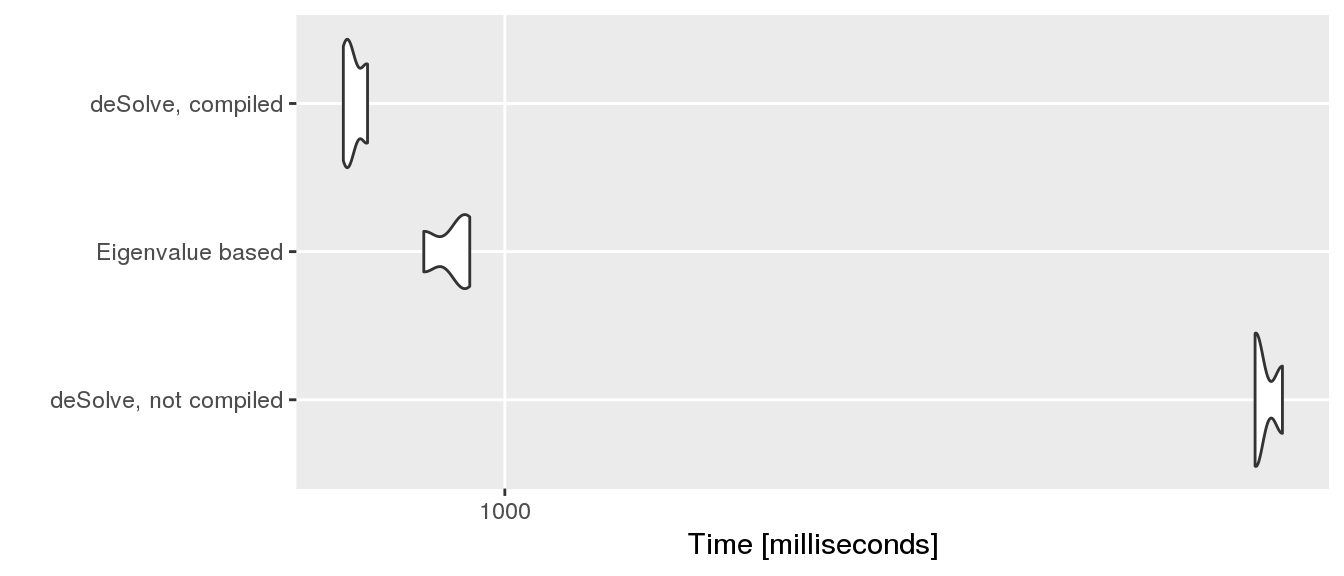
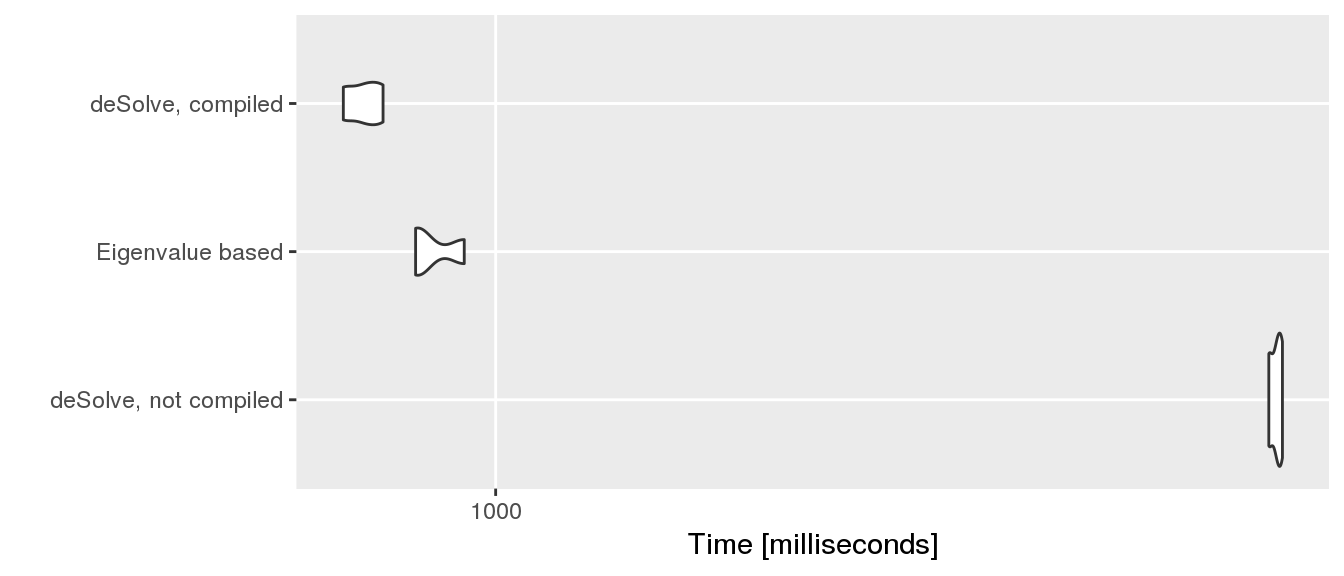
Static documentation articles rebuilt by pkgdown::build_articles()

diff --git a/docs/articles/FOCUS_L.html b/docs/articles/FOCUS_L.html
@@ -79,15 +79,15 @@ FOCUS_2006_L1_mkin &lt;-<span class="st"> </span><span class="kw"><a href="../re
 <span class="kw">summary</span>(m.L1.SFO)</code></pre></div>
 <pre><code>## mkin version:    0.9.45 
 ## R version:       3.3.2 
-## Date of fit:     Thu Dec  8 09:23:13 2016 
-## Date of summary: Thu Dec  8 09:23:13 2016 
+## Date of fit:     Thu Dec  8 09:39:24 2016 
+## Date of summary: Thu Dec  8 09:39:24 2016 
 ## 
 ## Equations:
 ## d_parent/dt = - k_parent_sink * parent
 ## 
 ## Model predictions using solution type analytical 
 ## 
-## Fitted with method Port using 37 model solutions performed in 0.088 s
+## Fitted with method Port using 37 model solutions performed in 0.084 s
 ## 
 ## Weighting: none
 ## 
@@ -172,8 +172,8 @@ FOCUS_2006_L1_mkin &lt;-<span class="st"> </span><span class="kw"><a href="../re
 <div class="sourceCode"><pre class="sourceCode r"><code class="sourceCode r"><span class="kw">summary</span>(m.L1.FOMC, <span class="dt">data =</span> <span class="ot">FALSE</span>)</code></pre></div>
 <pre><code>## mkin version:    0.9.45 
 ## R version:       3.3.2 
-## Date of fit:     Thu Dec  8 09:23:14 2016 
-## Date of summary: Thu Dec  8 09:23:14 2016 
+## Date of fit:     Thu Dec  8 09:39:25 2016 
+## Date of summary: Thu Dec  8 09:39:25 2016 
 ## 
 ## 
 ## Warning: Optimisation by method Port did not converge.
@@ -269,15 +269,15 @@ FOCUS_2006_L2_mkin &lt;-<span class="st"> </span><span class="kw"><a href="../re
 <div class="sourceCode"><pre class="sourceCode r"><code class="sourceCode r"><span class="kw">summary</span>(m.L2.FOMC, <span class="dt">data =</span> <span class="ot">FALSE</span>)</code></pre></div>
 <pre><code>## mkin version:    0.9.45 
 ## R version:       3.3.2 
-## Date of fit:     Thu Dec  8 09:23:14 2016 
-## Date of summary: Thu Dec  8 09:23:14 2016 
+## Date of fit:     Thu Dec  8 09:39:26 2016 
+## Date of summary: Thu Dec  8 09:39:26 2016 
 ## 
 ## Equations:
 ## d_parent/dt = - (alpha/beta) * 1/((time/beta) + 1) * parent
 ## 
 ## Model predictions using solution type analytical 
 ## 
-## Fitted with method Port using 81 model solutions performed in 0.185 s
+## Fitted with method Port using 81 model solutions performed in 0.183 s
 ## 
 ## Weighting: none
 ## 
@@ -339,8 +339,8 @@ FOCUS_2006_L2_mkin &lt;-<span class="st"> </span><span class="kw"><a href="../re
 <div class="sourceCode"><pre class="sourceCode r"><code class="sourceCode r"><span class="kw">summary</span>(m.L2.DFOP, <span class="dt">data =</span> <span class="ot">FALSE</span>)</code></pre></div>
 <pre><code>## mkin version:    0.9.45 
 ## R version:       3.3.2 
-## Date of fit:     Thu Dec  8 09:23:15 2016 
-## Date of summary: Thu Dec  8 09:23:15 2016 
+## Date of fit:     Thu Dec  8 09:39:27 2016 
+## Date of summary: Thu Dec  8 09:39:27 2016 
 ## 
 ## Equations:
 ## d_parent/dt = - ((k1 * g * exp(-k1 * time) + k2 * (1 - g) *
@@ -349,7 +349,7 @@ FOCUS_2006_L2_mkin &lt;-<span class="st"> </span><span class="kw"><a href="../re
 ## 
 ## Model predictions using solution type analytical 
 ## 
-## Fitted with method Port using 336 model solutions performed in 0.765 s
+## Fitted with method Port using 336 model solutions performed in 0.771 s
 ## 
 ## Weighting: none
 ## 
@@ -428,8 +428,8 @@ mm.L3 &lt;-<span class="st"> </span><span class="kw"><a href="../reference/mmkin
 <div class="sourceCode"><pre class="sourceCode r"><code class="sourceCode r"><span class="kw">summary</span>(mm.L3[[<span class="st">"DFOP"</span>, <span class="dv">1</span>]])</code></pre></div>
 <pre><code>## mkin version:    0.9.45 
 ## R version:       3.3.2 
-## Date of fit:     Thu Dec  8 09:23:17 2016 
-## Date of summary: Thu Dec  8 09:23:17 2016 
+## Date of fit:     Thu Dec  8 09:39:28 2016 
+## Date of summary: Thu Dec  8 09:39:28 2016 
 ## 
 ## Equations:
 ## d_parent/dt = - ((k1 * g * exp(-k1 * time) + k2 * (1 - g) *
@@ -438,7 +438,7 @@ mm.L3 &lt;-<span class="st"> </span><span class="kw"><a href="../reference/mmkin
 ## 
 ## Model predictions using solution type analytical 
 ## 
-## Fitted with method Port using 137 model solutions performed in 0.309 s
+## Fitted with method Port using 137 model solutions performed in 0.304 s
 ## 
 ## Weighting: none
 ## 
@@ -528,15 +528,15 @@ mm.L4 &lt;-<span class="st"> </span><span class="kw"><a href="../reference/mmkin
 <div class="sourceCode"><pre class="sourceCode r"><code class="sourceCode r"><span class="kw">summary</span>(mm.L4[[<span class="st">"SFO"</span>, <span class="dv">1</span>]], <span class="dt">data =</span> <span class="ot">FALSE</span>)</code></pre></div>
 <pre><code>## mkin version:    0.9.45 
 ## R version:       3.3.2 
-## Date of fit:     Thu Dec  8 09:23:17 2016 
-## Date of summary: Thu Dec  8 09:23:17 2016 
+## Date of fit:     Thu Dec  8 09:39:28 2016 
+## Date of summary: Thu Dec  8 09:39:29 2016 
 ## 
 ## Equations:
 ## d_parent/dt = - k_parent_sink * parent
 ## 
 ## Model predictions using solution type analytical 
 ## 
-## Fitted with method Port using 46 model solutions performed in 0.106 s
+## Fitted with method Port using 46 model solutions performed in 0.107 s
 ## 
 ## Weighting: none
 ## 
@@ -588,15 +588,15 @@ mm.L4 &lt;-<span class="st"> </span><span class="kw"><a href="../reference/mmkin
 <div class="sourceCode"><pre class="sourceCode r"><code class="sourceCode r"><span class="kw">summary</span>(mm.L4[[<span class="st">"FOMC"</span>, <span class="dv">1</span>]], <span class="dt">data =</span> <span class="ot">FALSE</span>)</code></pre></div>
 <pre><code>## mkin version:    0.9.45 
 ## R version:       3.3.2 
-## Date of fit:     Thu Dec  8 09:23:17 2016 
-## Date of summary: Thu Dec  8 09:23:17 2016 
+## Date of fit:     Thu Dec  8 09:39:28 2016 
+## Date of summary: Thu Dec  8 09:39:29 2016 
 ## 
 ## Equations:
 ## d_parent/dt = - (alpha/beta) * 1/((time/beta) + 1) * parent
 ## 
 ## Model predictions using solution type analytical 
 ## 
-## Fitted with method Port using 66 model solutions performed in 0.148 s
+## Fitted with method Port using 66 model solutions performed in 0.145 s
 ## 
 ## Weighting: none
 ## 

diff --git a/docs/articles/compiled_models.html b/docs/articles/compiled_models.html
@@ -99,21 +99,21 @@ mb<span class="fl">.1</span> &lt;-<span class="st"> </span><span class="kw">micr
 <span class="kw">print</span>(mb<span class="fl">.1</span>)</code></pre></div>
 <pre><code>## Unit: milliseconds
 ##                   expr       min        lq      mean    median        uq
-##  deSolve, not compiled 5006.3815 5014.4629 5112.7115 5022.5443 5165.8765
-##       Eigenvalue based  840.3027  874.3549  892.0593  908.4071  917.9376
-##      deSolve, compiled  706.9909  712.8031  723.4380  718.6154  731.6615
+##  deSolve, not compiled 5185.0893 5231.5690 5266.8769 5278.0487 5307.7706
+##       Eigenvalue based  843.3153  847.1503  876.5398  850.9853  893.1520
+##      deSolve, compiled  723.0636  740.5682  755.9995  758.0729  772.4674
 ##        max neval cld
-##  5309.2087     3   b
-##   927.4680     3  a 
-##   744.7077     3  a</code></pre>
+##  5337.4926     3   b
+##   935.3187     3  a 
+##   786.8620     3  a</code></pre>
 <div class="sourceCode"><pre class="sourceCode r"><code class="sourceCode r"><span class="kw">autoplot</span>(mb<span class="fl">.1</span>)</code></pre></div>
 <p><img src="compiled_models_files/figure-html/benchmark_SFO_SFO-1.png" width="672"></p>
 <p>We see that using the compiled model is by a factor of 7 faster than using the R version with the default ode solver, and it is even faster than the Eigenvalue based solution implemented in R which does not need iterative solution of the ODEs:</p>
 <div class="sourceCode"><pre class="sourceCode r"><code class="sourceCode r"><span class="kw">rownames</span>(smb<span class="fl">.1</span>) &lt;-<span class="st"> </span>smb<span class="fl">.1</span>$expr
 smb<span class="fl">.1</span>[<span class="st">"median"</span>]/smb<span class="fl">.1</span>[<span class="st">"deSolve, compiled"</span>, <span class="st">"median"</span>]</code></pre></div>
 <pre><code>##                         median
-## deSolve, not compiled 6.989197
-## Eigenvalue based      1.264108
+## deSolve, not compiled 6.962456
+## Eigenvalue based      1.122564
 ## deSolve, compiled     1.000000</code></pre>
 </div>
 <div id="model-that-can-not-be-solved-with-eigenvalues" class="section level2">
@@ -134,19 +134,19 @@ smb<span class="fl">.1</span>[<span class="st">"median"</span>]/smb<span class="
 <div class="sourceCode"><pre class="sourceCode r"><code class="sourceCode r">smb<span class="fl">.2</span> &lt;-<span class="st"> </span><span class="kw">summary</span>(mb<span class="fl">.2</span>)
 <span class="kw">print</span>(mb<span class="fl">.2</span>)</code></pre></div>
 <pre><code>## Unit: seconds
-##                   expr       min       lq     mean    median        uq
-##  deSolve, not compiled 11.015990 11.17783 11.24827 11.339674 11.364403
-##      deSolve, compiled  1.285264  1.29794  1.32988  1.310616  1.352189
+##                   expr       min        lq      mean   median        uq
+##  deSolve, not compiled 10.963655 10.992677 11.033360 11.02170 11.068212
+##      deSolve, compiled  1.287898  1.309754  1.322972  1.33161  1.340509
 ##        max neval cld
-##  11.389132     3   b
-##   1.393762     3  a</code></pre>
+##  11.114726     3   b
+##   1.349408     3  a</code></pre>
 <div class="sourceCode"><pre class="sourceCode r"><code class="sourceCode r">smb<span class="fl">.2</span>[<span class="st">"median"</span>]/smb<span class="fl">.2</span>[<span class="st">"deSolve, compiled"</span>, <span class="st">"median"</span>]</code></pre></div>
 <pre><code>##   median
 ## 1     NA
 ## 2     NA</code></pre>
 <div class="sourceCode"><pre class="sourceCode r"><code class="sourceCode r"><span class="kw">autoplot</span>(mb<span class="fl">.2</span>)</code></pre></div>
 <p><img src="compiled_models_files/figure-html/benchmark_FOMC_SFO-1.png" width="672"></p>
-<p>Here we get a performance benefit of a factor of 8.7 using the version of the differential equation model compiled from C code!</p>
+<p>Here we get a performance benefit of a factor of 8.3 using the version of the differential equation model compiled from C code!</p>
 <p>This vignette was built with mkin 0.9.45 on</p>
 <pre><code>## R version 3.3.2 (2016-10-31)
 ## Platform: x86_64-pc-linux-gnu (64-bit)

diff --git a/docs/articles/FOCUS_D.html b/docs/articles/FOCUS_D.html
@@ -132,8 +132,8 @@
 <div class="sourceCode"><pre class="sourceCode r"><code class="sourceCode r"><span class="kw">summary</span>(fit)</code></pre></div>
 <pre><code>## mkin version:    0.9.45 
 ## R version:       3.3.2 
-## Date of fit:     Thu Dec  8 09:23:12 2016 
-## Date of summary: Thu Dec  8 09:23:13 2016 
+## Date of fit:     Thu Dec  8 09:39:23 2016 
+## Date of summary: Thu Dec  8 09:39:24 2016 
 ## 
 ## Equations:
 ## d_parent/dt = - k_parent_sink * parent - k_parent_m1 * parent
@@ -141,7 +141,7 @@
 ## 
 ## Model predictions using solution type deSolve 
 ## 
-## Fitted with method Port using 153 model solutions performed in 0.639 s
+## Fitted with method Port using 153 model solutions performed in 0.627 s
 ## 
 ## Weighting: none
 ## 
